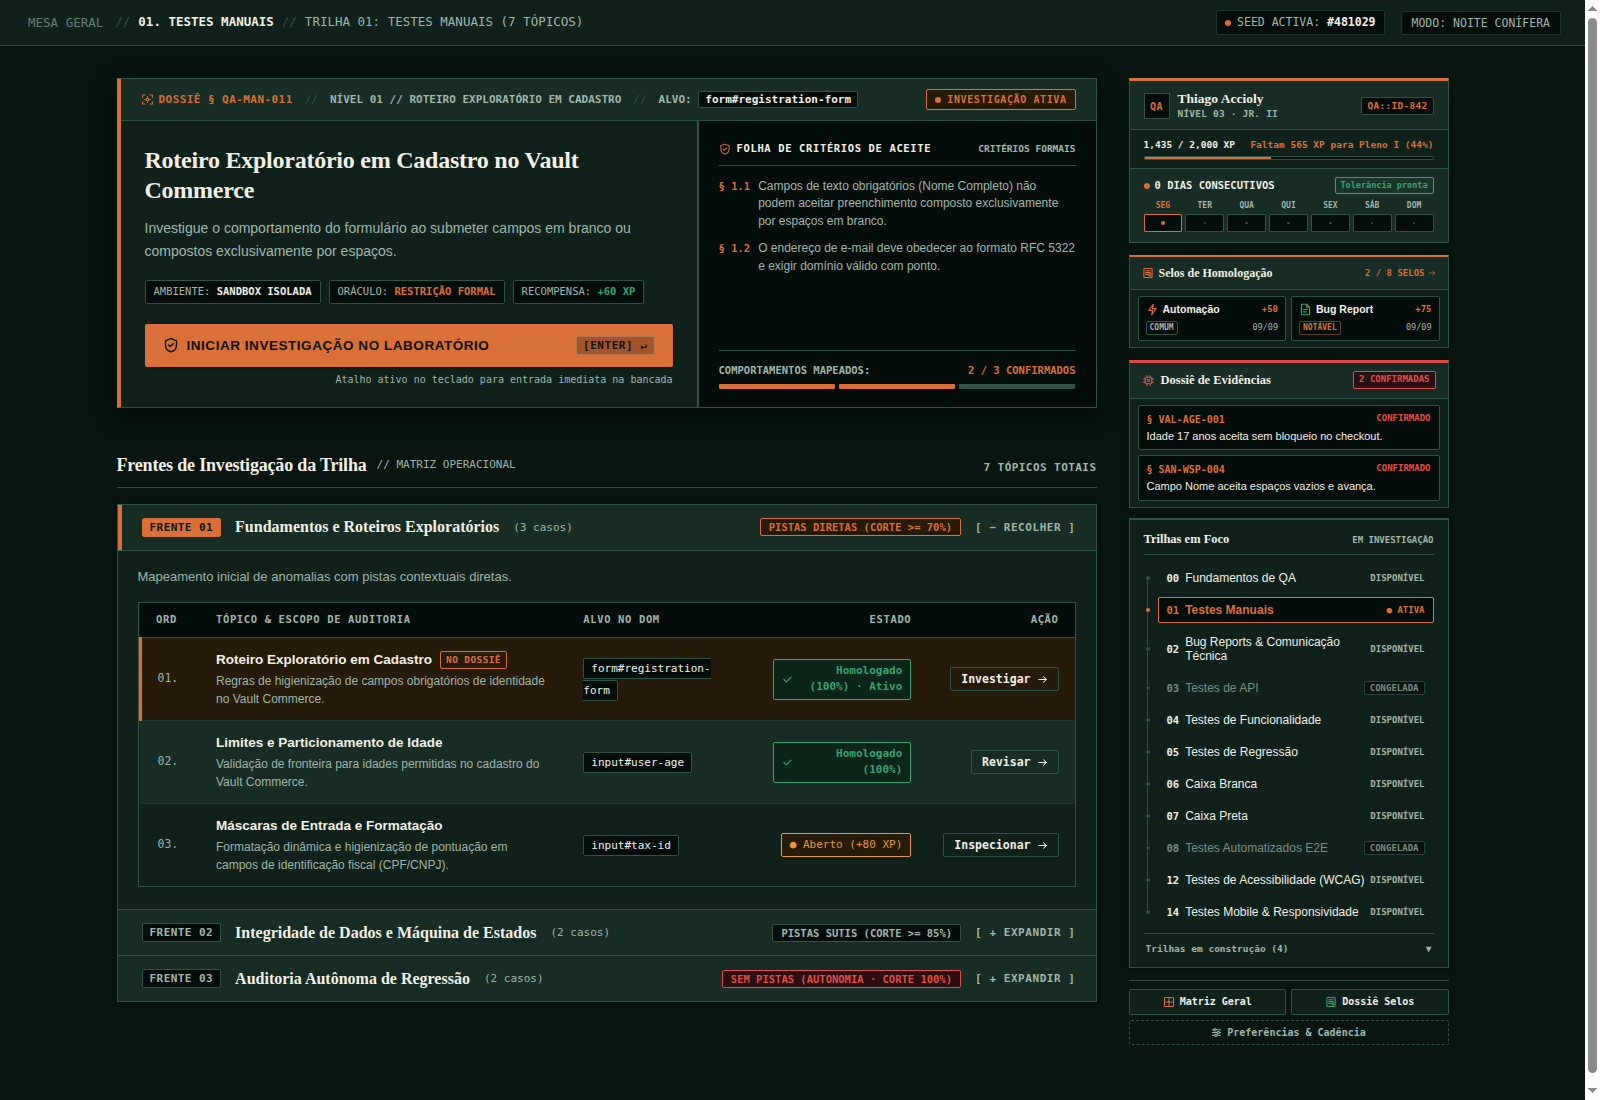
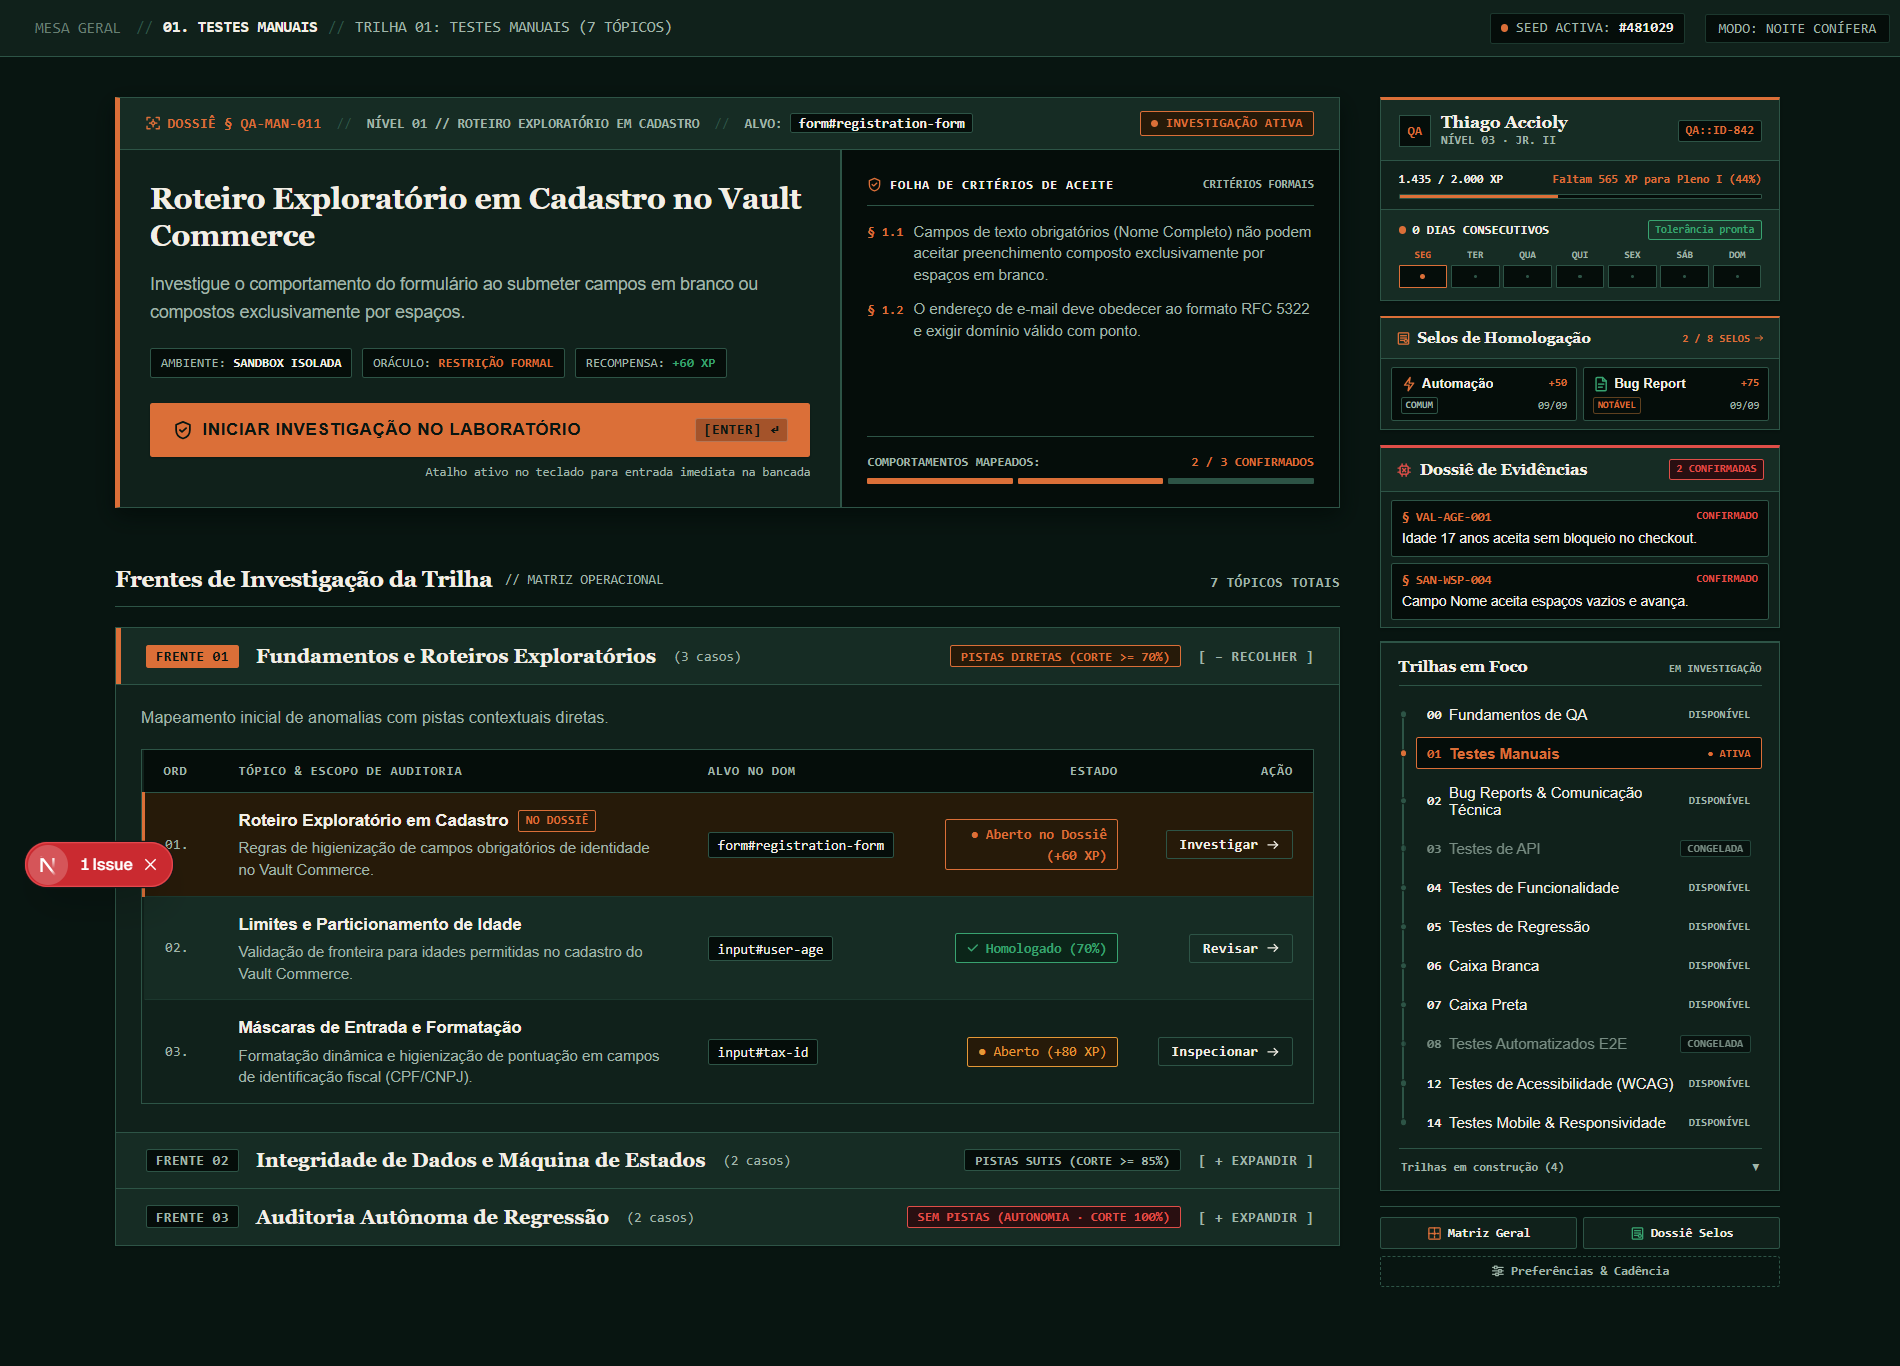
fix(curriculum): sincroniza integridade entre CaseHeroDossier e ModuleFrentes

diff --git a/frontend/src/components/CaseHeroDossier.tsx b/frontend/src/components/CaseHeroDossier.tsx
@@ -1,7 +1,7 @@
 'use client';
 
 import React, { useEffect } from 'react';
-import { IconAuditShield, IconViewfinder, IconCrosshairTouch } from './TechnicalIcons';
+import { IconAuditShield, IconViewfinder, IconCrosshairTouch, IconCheck } from './TechnicalIcons';
 
 interface CaseHeroDossierProps {
   caseCode?: string;
@@ -15,6 +15,8 @@ interface CaseHeroDossierProps {
   xpReward: number;
   onEnterLab: () => void;
   isModalOpen?: boolean;
+  isHomologated?: boolean;
+  homologatedScore?: number;
 }
 
 export const CaseHeroDossier: React.FC<CaseHeroDossierProps> = ({
@@ -29,6 +31,8 @@ export const CaseHeroDossier: React.FC<CaseHeroDossierProps> = ({
   xpReward,
   onEnterLab,
   isModalOpen = false,
+  isHomologated = false,
+  homologatedScore = 100,
 }) => {
   // Atalho de teclado real [ENTER] ↵ com salvaguardas estritas de foco
   useEffect(() => {
@@ -119,13 +123,22 @@ export const CaseHeroDossier: React.FC<CaseHeroDossierProps> = ({
           letterSpacing: '0.06em',
           padding: '2px 8px',
           borderRadius: 'var(--radius-xs)',
-          backgroundColor: 'var(--status-investigating-bg)',
-          color: 'var(--copper-signature)',
-          border: '1px solid var(--copper-signature)',
+          backgroundColor: isHomologated ? 'var(--status-pass-bg)' : 'var(--status-investigating-bg)',
+          color: isHomologated ? 'var(--status-pass)' : 'var(--copper-signature)',
+          border: `1px solid ${isHomologated ? 'var(--status-pass)' : 'var(--copper-signature)'}`,
           fontWeight: 700
         }}>
-          <span style={{ width: '6px', height: '6px', borderRadius: '50%', backgroundColor: 'var(--copper-signature)' }} />
-          <span>INVESTIGAÇÃO ATIVA</span>
+          {isHomologated ? (
+            <>
+              <IconCheck size={11} />
+              <span>DOSSIÊ HOMOLOGADO ({homologatedScore}%)</span>
+            </>
+          ) : (
+            <>
+              <span style={{ width: '6px', height: '6px', borderRadius: '50%', backgroundColor: 'var(--copper-signature)' }} />
+              <span>INVESTIGAÇÃO ATIVA</span>
+            </>
+          )}
         </div>
       </div>
 
@@ -205,7 +218,9 @@ export const CaseHeroDossier: React.FC<CaseHeroDossierProps> = ({
                 borderRadius: '2px',
                 color: 'var(--text-secondary)'
               }}>
-                RECOMPENSA: <strong style={{ color: 'var(--status-pass)' }}>+{xpReward} XP</strong>
+                RECOMPENSA: <strong style={{ color: 'var(--status-pass)' }}>
+                  {isHomologated ? `+${xpReward} XP (HOMOLOGADO)` : `+${xpReward} XP`}
+                </strong>
               </span>
             </div>
           </div>
@@ -218,9 +233,9 @@ export const CaseHeroDossier: React.FC<CaseHeroDossierProps> = ({
               aria-keyshortcuts="Enter"
               style={{
                 width: '100%',
-                backgroundColor: 'var(--accent-command)',
-                color: 'var(--accent-command-contrast)',
-                border: 'none',
+                backgroundColor: isHomologated ? 'var(--bg-surface-sunken)' : 'var(--accent-command)',
+                color: isHomologated ? 'var(--copper-signature)' : 'var(--accent-command-contrast)',
+                border: isHomologated ? '1.5px solid var(--copper-signature)' : 'none',
                 fontFamily: 'var(--font-sans)',
                 fontSize: '13.5px',
                 fontWeight: 700,
@@ -239,7 +254,7 @@ export const CaseHeroDossier: React.FC<CaseHeroDossierProps> = ({
             >
               <span style={{ display: 'flex', alignItems: 'center', gap: '8px' }}>
                 <IconAuditShield size={16} />
-                <span>INICIAR INVESTIGAÇÃO NO LABORATÓRIO</span>
+                <span>{isHomologated ? 'REVISAR CASO NO LABORATÓRIO' : 'INICIAR INVESTIGAÇÃO NO LABORATÓRIO'}</span>
               </span>
 
               <span style={{
@@ -264,7 +279,9 @@ export const CaseHeroDossier: React.FC<CaseHeroDossierProps> = ({
               textAlign: 'right',
               fontWeight: 500
             }}>
-              Atalho ativo no teclado para entrada imediata na bancada
+              {isHomologated
+                ? 'Atalho ativo no teclado para revisão da bancada forense'
+                : 'Atalho ativo no teclado para entrada imediata na bancada'}
             </div>
           </div>
         </div>
@@ -347,7 +364,11 @@ export const CaseHeroDossier: React.FC<CaseHeroDossierProps> = ({
           }}>
             <div style={{ display: 'flex', justifyContent: 'space-between', marginBottom: '5px' }}>
               <span style={{ color: 'var(--text-secondary)', fontWeight: 600 }}>COMPORTAMENTOS MAPEADOS:</span>
-              <strong style={{ color: 'var(--copper-signature)' }}>{mappedCount} / {totalCount} CONFIRMADOS</strong>
+              <strong style={{ color: isHomologated ? 'var(--status-pass)' : 'var(--copper-signature)' }}>
+                {isHomologated
+                  ? `HOMOLOGADO (${homologatedScore}%)`
+                  : `${mappedCount} / ${totalCount} CONFIRMADOS`}
+              </strong>
             </div>
 
             {/* Microbarra métrica segmentada */}
@@ -356,7 +377,9 @@ export const CaseHeroDossier: React.FC<CaseHeroDossierProps> = ({
                 <div
                   key={i}
                   style={{
-                    backgroundColor: i < mappedCount ? 'var(--copper-signature)' : 'var(--border-strong)',
+                    backgroundColor: isHomologated
+                      ? 'var(--status-pass)'
+                      : (i < mappedCount ? 'var(--copper-signature)' : 'var(--border-strong)'),
                     borderRadius: '1px'
                   }}
                 />

diff --git a/frontend/src/components/ModuleFrentes.tsx b/frontend/src/components/ModuleFrentes.tsx
@@ -335,7 +335,7 @@ export const ModuleFrentes: React.FC<ModuleFrentesProps> = ({
                                     border: '1px solid var(--status-pass)'
                                   }}>
                                     <IconCheck size={11} />
-                                    Homologado ({score}%) {isCurrentActive && '· Ativo'}
+                                    Homologado ({score}%) {isCurrentActive && '· No Dossiê'}
                                   </span>
                                 ) : isCurrentActive ? (
                                   <span style={{
@@ -403,7 +403,7 @@ export const ModuleFrentes: React.FC<ModuleFrentesProps> = ({
                                     e.currentTarget.style.backgroundColor = 'transparent';
                                   }}
                                 >
-                                  <span>{isCurrentActive ? 'Investigar' : (isCompleted ? 'Revisar' : 'Inspecionar')}</span>
+                                  <span>{isCompleted ? 'Revisar' : (isCurrentActive ? 'Investigar' : 'Inspecionar')}</span>
                                   <IconArrowRight size={11} />
                                 </button>
                               </td>

diff --git a/frontend/src/app/page.tsx b/frontend/src/app/page.tsx
@@ -189,6 +189,8 @@ export default function InvestigationDeskPage() {
   };
 
   const currentActiveTopic = selectedTopic || (modules[0]?.topics?.[0] ?? INITIAL_MODULES[0].topics[0]);
+  const isCurrentTopicHomologated = Boolean(currentActiveTopic && completedTopics[currentActiveTopic.code]);
+  const currentTopicScore = currentActiveTopic ? (completedTopics[currentActiveTopic.code] || 0) : 0;
 
   const totalTopicsCount = modules.reduce((acc, m) => acc + (m.topics?.length || 0), 0);
 
@@ -235,6 +237,8 @@ export default function InvestigationDeskPage() {
             xpReward={currentActiveTopic.xp_reward}
             onEnterLab={() => handleEnterLab(currentActiveTopic)}
             isModalOpen={isLabOpen || isBriefingOpen}
+            isHomologated={isCurrentTopicHomologated}
+            homologatedScore={currentTopicScore}
           />
 
           {/* AS 3 FRENTES DE INVESTIGAÇÃO */}

diff --git a/backend/apps/gamification/tests.py b/backend/apps/gamification/tests.py
@@ -448,3 +448,69 @@ class GamificationEngineTestCase(TestCase):
             content_type='application/json'
         )
         self.assertEqual(bad_response.status_code, 400)
+
+    def test_completed_topics_excludes_unapproved_topics_and_spurious_code_submissions(self):
+        """
+        Garante a integridade do completed_topics:
+        1. Topicos sem submissoes aprovadas (como QA-MAN-011) ou apenas com submissoes
+           reprovadas NAO constam em completed_topics.
+        2. Submissoes de codigo espurias em topicos puramente manuais (Trilha 1 sem atividade
+           de automacao) sao ignoradas e nao homologam indevidamente o caso.
+        3. Apenas topicos com submissoes efetivamente aprovadas (is_approved=True) constam
+           com suas respectivas notas.
+        """
+        from apps.evaluation.models import Submission
+        from apps.sandbox.models import CodeSubmission
+        from apps.gamification.serializers import AnalystProfileSerializer
+
+        # Topico manual sob teste ativo (QA-MAN-011)
+        topic_man_11 = Topic.objects.create(
+            module=self.module1,
+            code="QA-MAN-011",
+            title="Formulario de Cadastro",
+            slug="form-cadastro",
+            oracle_description="Validar campos obrigatorios"
+        )
+
+        # Submissao de avaliacao REPROVADA (nao homologada)
+        Submission.objects.create(
+            topic=topic_man_11,
+            session_seed="seed-11-test",
+            reported_behaviors=["BR-273"],
+            active_behaviors_snapshot=["BR-273", "BR-274", "BR-275"],
+            final_score=60.0,
+            is_approved=False
+        )
+
+        # Submissao de codigo espuria criada indevidamente com topic=topic_man_11 (trilha 1 manual)
+        CodeSubmission.objects.create(
+            topic=topic_man_11,
+            session_seed="seed-spurious",
+            code="print('exploit')",
+            score=100.0,
+            is_approved=True
+        )
+
+        # Topico 2 com submissao de avaliacao APROVADA
+        Submission.objects.create(
+            topic=self.topic2,
+            session_seed="seed-approved-21",
+            reported_behaviors=["BUG-1"],
+            active_behaviors_snapshot=["BUG-1"],
+            final_score=85.0,
+            is_approved=True
+        )
+
+        profile = GamificationService.get_or_create_profile(self.user)
+        profile.active_topic = topic_man_11
+        profile.save()
+
+        serializer = AnalystProfileSerializer(profile)
+        completed = serializer.data['completed_topics']
+
+        # QA-MAN-011 NAO deve estar em completed_topics
+        self.assertNotIn('QA-MAN-011', completed)
+        # QA-REP-021 DEVE estar em completed_topics com a nota 85
+        self.assertIn(self.topic2.code, completed)
+        self.assertEqual(completed[self.topic2.code], 85)
+

diff --git a/backend/apps/gamification/serializers.py b/backend/apps/gamification/serializers.py
@@ -42,8 +42,13 @@ class AnalystProfileSerializer(serializers.ModelSerializer):
         return StreakCalculationService.calculate_streak(obj.user)
 
     def get_completed_topics(self, obj):
+        """
+        Retorna os tópicos homologados com pontuação máxima alcançada pelo analista.
+        Regra de Integridade: Apenas submissões efetivamente aprovadas (is_approved=True)
+        são computadas. Submissões de código no sandbox só contam para tópicos que de fato
+        possuem atividades de código/automação, impedindo contaminação cruzada em tópicos manuais.
+        """
         res = {}
-        # Submissoes homologadas de avaliacao e sandbox
         try:
             from apps.evaluation.models import Submission
             for sub in Submission.objects.filter(is_approved=True).select_related('topic'):
@@ -53,9 +58,16 @@ class AnalystProfileSerializer(serializers.ModelSerializer):
             pass
         try:
             from apps.sandbox.models import CodeSubmission
+            from apps.curriculum.models import ActivityType
             for cs in CodeSubmission.objects.filter(is_approved=True).select_related('topic'):
                 if cs.topic:
-                    res[cs.topic.code] = max(res.get(cs.topic.code, 0), int(cs.score))
+                    # Tópicos manuais puros (como QA-MAN-011) não possuem atividade de automação
+                    has_code_activity = cs.topic.activities.filter(
+                        activity_type__in=[ActivityType.CODE_AUTOMATION, ActivityType.UNIT_TEST]
+                    ).exists()
+                    # Trilha de automação/estrutura ou tópico com código explícito
+                    if has_code_activity or (cs.topic.module and cs.topic.module.track and cs.topic.module.track.number not in [0, 1]):
+                        res[cs.topic.code] = max(res.get(cs.topic.code, 0), int(cs.score))
         except Exception:
             pass
         return res
